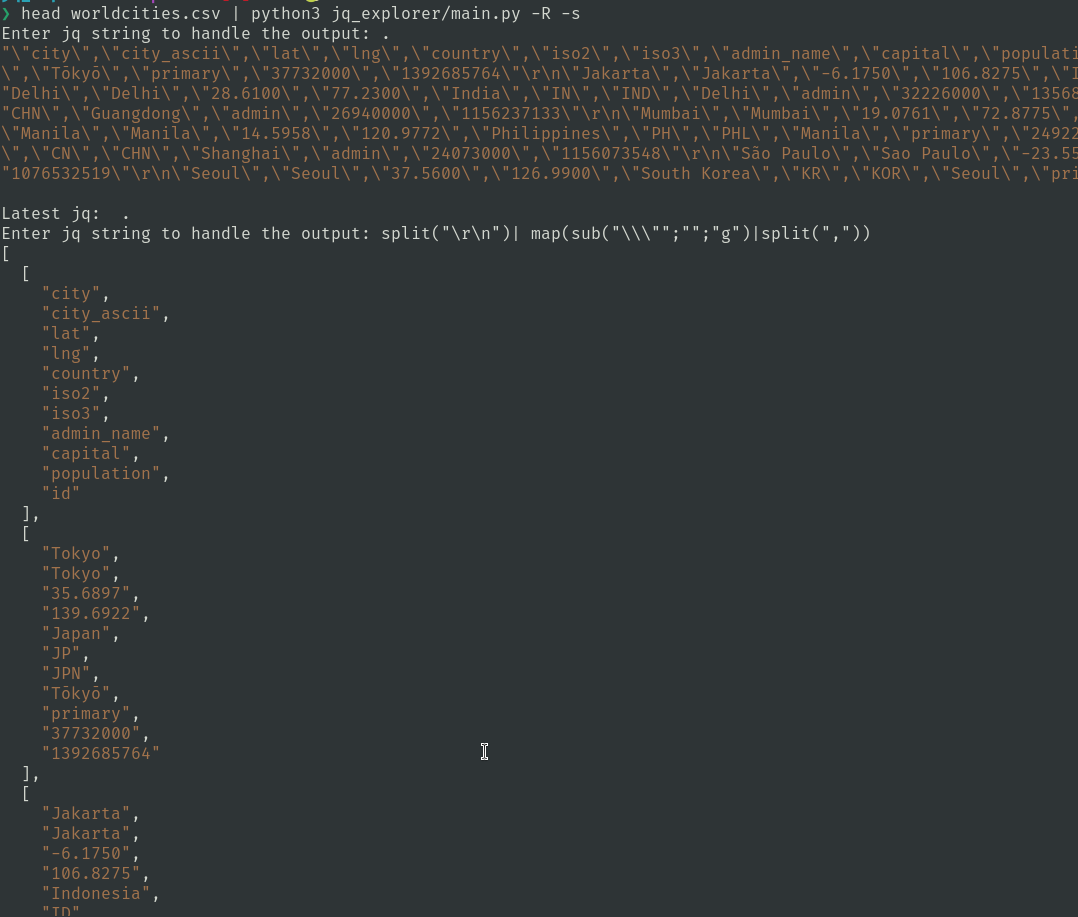
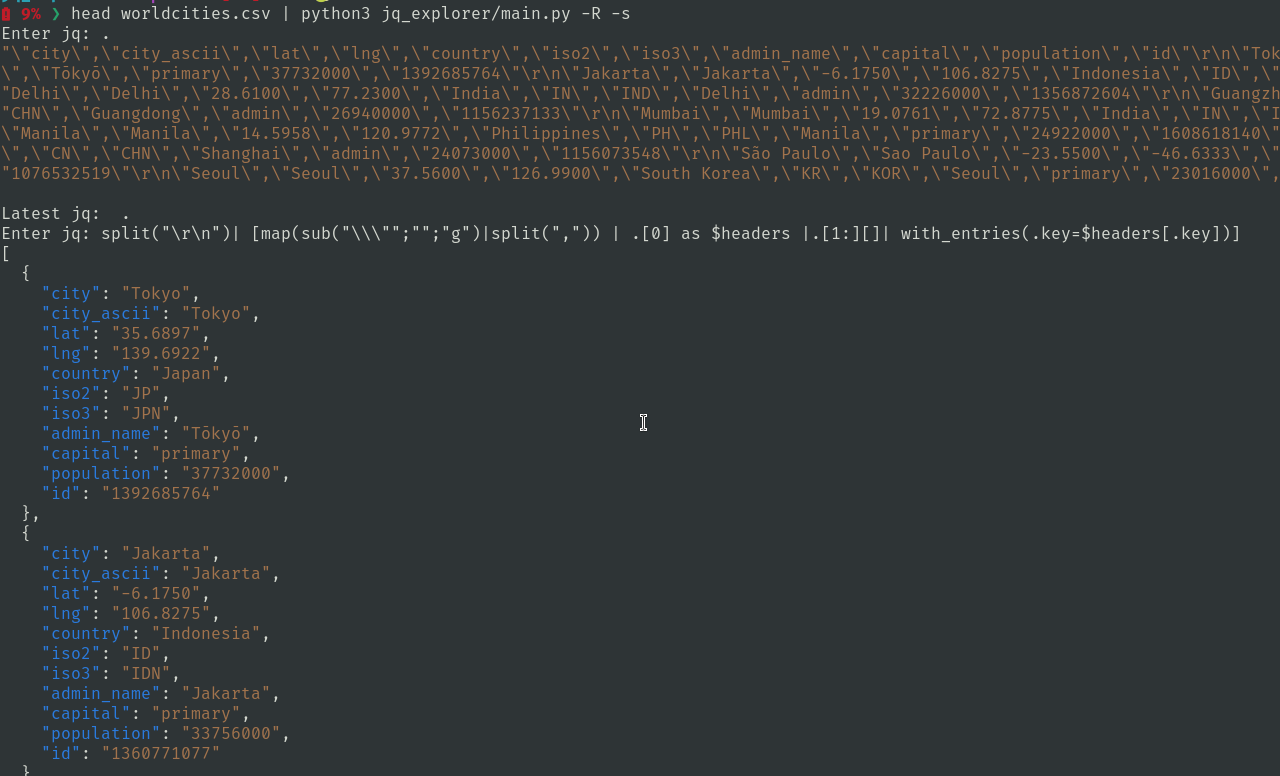
Update jq examples

Changed region(s): [[0.0, 0.0, 1.0, 1.0]]

diff --git a/jq_explorer/main.py b/jq_explorer/main.py
@@ -53,7 +53,7 @@ def get_jq_command():
     if cache.get("last_jq") is not None:
         print("Latest jq: ", cache.get("last_jq", "None"))
     jq_string = handle_input(
-        "Enter jq string to handle the output: ", cache.get("last_jq")
+        "Enter jq: ", cache.get("last_jq")
     )
     cache["last_jq"] = jq_string
     return jq_string

diff --git a/README.md b/README.md
@@ -70,7 +70,8 @@ curl -s https://pokeapi.co/api/v2/pokemon/  | python3 jq_explorer/main.py
 
 
 ```
-head example.csv | python3 jq_explorer/main.py
+head worldcities.csv | python3 jq_explorer/main.py -R -s
+Enter jq string: split("\r\n")| [map(sub("\\\"";"";"g")|split(",")) | .[0] as $headers |.[1:][]| with_entries(.key=$headers[.key])]
 ```
 ![Screenshot using previous csv](images/csv-example.png)
 
